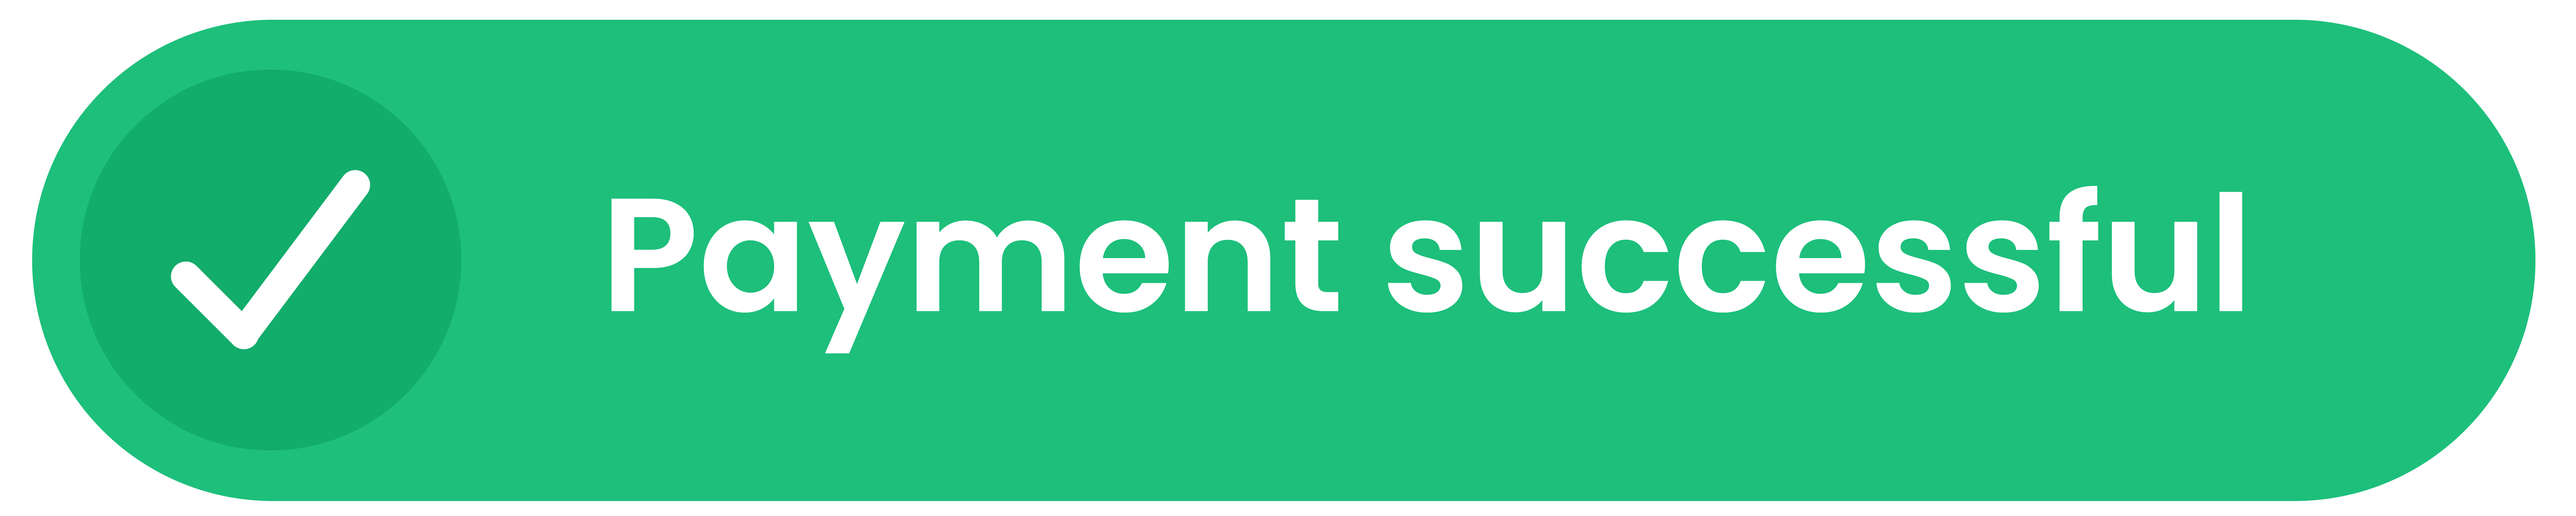
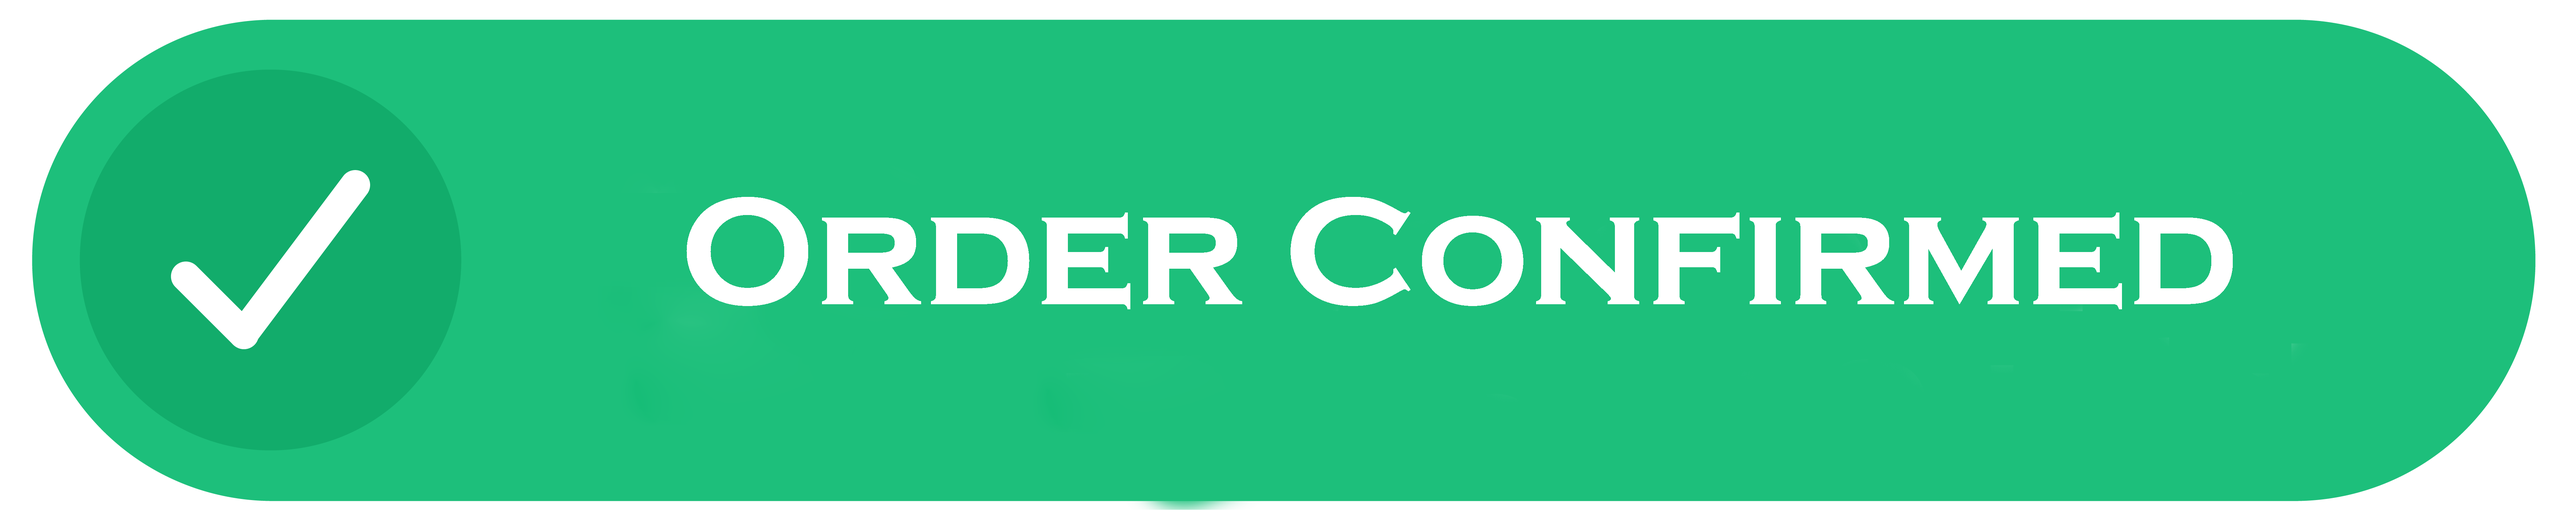
order and cart repair

Changed region(s): [[0.2181, 0.371, 0.8725, 0.6803], [0.4363, 0.9585, 0.4986, 0.9895]]

diff --git a/js/payment.js b/js/payment.js
@@ -1,3 +1,7 @@
+// Use the latest modular SDK from Firebase version 9+
+        import { initializeApp } from "https://www.gstatic.com/firebasejs/9.15.0/firebase-app.js";
+        import { getFirestore, collection, addDoc, serverTimestamp } from "https://www.gstatic.com/firebasejs/9.15.0/firebase-firestore.js";
+
 window.addEventListener('DOMContentLoaded', function () {
     const quantity = localStorage.getItem('quantity'); // Retrieve the value from local storage
     const unitPrice = 3950; // Unit price
@@ -7,90 +11,99 @@ window.addEventListener('DOMContentLoaded', function () {
     }
 });
 
-// Your web app's Firebase configuration
-var firebaseConfig = {
-    apiKey: "AIzaSyCSerXZZtRlGb63GJd-HefhGfKDZnbjjJc",
-  authDomain: "readex-8d80e.firebaseapp.com",
-  databaseURL: "https://readex-8d80e-default-rtdb.firebaseio.com",
-  projectId: "readex-8d80e",
-  storageBucket: "readex-8d80e.firebasestorage.app",
-  messagingSenderId: "127711263723",
-  appId: "1:127711263723:web:02b1d63d5a7b371828f7ae",
-  measurementId: "G-Q2Q59R8WRN"
+        // -----------------------------------------------------------------------------------
+        // STEP 2: PASTE YOUR FIREBASE CONFIGURATION HERE
+        // Find this in your Firebase project settings under "General" -> "Your apps".
+        // It's crucial that you replace these placeholder values with your actual config.
+        // -----------------------------------------------------------------------------------
+        const firebaseConfig = {
+  apiKey: "AIzaSyD6pUbSxksN1uPTuvV8ckSl5241a6c0bS8",
+  authDomain: "readex-userdata.firebaseapp.com",
+  projectId: "readex-userdata",
+  storageBucket: "readex-userdata.firebasestorage.app",
+  messagingSenderId: "610302361527",
+  appId: "1:610302361527:web:cb5be0d9e38cca9dd0b232",
+  measurementId: "G-CJVYZ0JG9C"
 };
-// Initialize Firebase
-firebase.initializeApp(firebaseConfig);
-var database = firebase.database();
 
-document.querySelector('.buy-now-content').addEventListener("click", (e)=> {
-    e.preventDefault(); // Prevent default form submission
+        // Initialize Firebase
+        const app = initializeApp(firebaseConfig);
 
-    const quantity = localStorage.getItem('quantity'); // Retrieve the value from local storage
-    const unitPrice = 3950; // Unit price
-    const totalPrice = unitPrice * quantity;
+        // Get a reference to the Firestore database service
+        const db = getFirestore(app);
+console.log(db);
+        // -----------------------------------------------------------------------------------
+        // STEP 3: JAVASCRIPT TO HANDLE THE FORM SUBMISSION
+        // -----------------------------------------------------------------------------------
+        const shippingForm = document.getElementById('buyNow');
+        // const statusMessage = document.getElementById('status-message');
 
-    var name = document.getElementById('name').value.trim();
-    var address = document.getElementById('address').value.trim();
-    var pincode = document.getElementById('pincode').value.trim();
-    var number = document.getElementById('number').value.trim();
-    var country = document.getElementById('country').value.trim();
-    var state = document.getElementById('state').value.trim();
-    // var productPrice = document.getElementById('price').innerHTML;
+        shippingForm.addEventListener('click', async (e) => {
+            // Prevents the default form reload behavior
+            e.preventDefault();
 
-    if (name === '' || address === '' || number === '' || pincode === '' || country === '' || state === '') {
-        alert('Please fill in all the fields.');
-        return;
-    }
+            // Get the current values from the form inputs
+          var name = document.getElementById('name').value.trim();
+          var address = document.getElementById('address').value.trim();
+          var pincode = document.getElementById('pincode').value.trim();
+          var country = document.getElementById('country').value.trim();
+          var countryCode = document.getElementById('countryCode').value.trim();
+          var state = document.getElementById('state').value.trim();
+          var number = document.getElementById('number').value.trim();
 
-    var options = {
-        "key": "rzp_live_hYulURwK7yq2ES", // Enter the Key ID generated from the Dashboard
-        "amount": totalPrice * 100, // Amount is in currency subunits. Default currency is INR. Hence, 500 refers to 500 paise
-        "currency": "INR",
-        "name": "Readex Craft",
-        "description": "Adjustable Quran Stand",
-        "image": "https://readex.in/img/favicon.jpg",
-        "handler": function(response) {
-            alert("Payment Successful. Razorpay Payment ID: " + response.razorpay_payment_id);
+            // statusMessage.textContent = 'Processing...';
+            // statusMessage.className = 'text-gray-500';
 
-            // Send data to Firebase
-            var orderData = {
-                name: name,
-                // email: email,
-                pincode: pincode,
+            // Create a data object to save to Firestore
+            const orderDetails = {
+                fullName: name,
                 address: address,
-                number: number,
+                pincode: pincode,
                 country: country,
-                state: state,
-                payment_id: response.razorpay_payment_id,
-                amount: productPrice
+                countryCode:countryCode,
+                state:state,
+                number: number,
+                orderStatus: 'pending', // You can add other useful info
+                createdAt: serverTimestamp() // Adds a server-side timestamp
             };
 
-            var newOrderKey = firebase.database().ref().child('orders').push().key;
-            var updates = {};
-            updates['/orders/' + newOrderKey] = orderData;
-            firebase.database().ref().update(updates)
-                .then(() => {
-                    localStorage.setItem('status', 'yes');
-                    window.location.href = '/succsess.html';
-                })
-                .catch((error) => {
-                    alert('Error saving order details: ' + error.message);
-                });
-            
-        },
-        "prefill": {
-            "name": name,
-            "contact": number
-        },
-        "notes": {
-            "address": address
-        },
-        "theme": {
-            "color": "#700000"
-        }
-    };
+            emailjs.init({
+          publicKey: "NV4eIQjZIW9ebnWtE", // Get this from your EmailJS account
+        });
 
-    var rzp1 = new Razorpay(options);
-    rzp1.open();
-    e.preventDefault();
-})
+        // 2. Add a click event listener to your button
+           
+        function sendOrderEmail() {
+            // These IDs can be found in your EmailJS account
+            const serviceID = 'service_c560en7';
+            const templateID = 'template_1m6qi7l';
+
+           
+
+            // 4. Send the email using the object
+            emailjs.send(serviceID, templateID, orderDetails)
+                .then(() => {
+                    alert('Order confirmation sent successfully!');
+                }, (err) => {
+                    alert('Failed to send confirmation. Error: ' + JSON.stringify(err));
+                });
+        }
+         sendOrderEmail();
+            // Use a try/catch block to handle potential errors
+            try {
+                // `addDoc` creates a new document with a unique, auto-generated ID in the "orders" collection.
+                const docRef = await addDoc(collection(db, "orders"), orderDetails);
+                
+                console.log("Order data saved with ID: ", docRef.id);
+                // statusMessage.textContent = '✅ Order confirmed successfully!';
+                // statusMessage.className = 'text-green-600';
+                // shippingForm.reset(); // Clear the form fields
+                window.location.href = 'succsus.html';
+            } catch (error) {
+                console.error("Error saving document: ", error);
+                // statusMessage.textContent = '❌ There was an error placing your order.';
+                // statusMessage.className = 'text-red-600';
+            }
+        });
+
+

diff --git a/address.html b/address.html
@@ -28,7 +28,7 @@
                     </div>
                     
                     <div class="cart-product-price">
-                        <p><span class="price" style=" font-size: 14px;">₹<span style="font-family: Degular-semibold; font-size: 17.5px;">3950</span></span></p>
+                        <p><span class="price" style=" font-size: 14px;">₹<span style="font-family: Degular-semibold; font-size: 17.5px;" class="total-amount">3950</span></span></p>
                         <img src="Assets/img/Free shipping.svg">                    
                     </div>
                 </div>
@@ -61,7 +61,7 @@
             <!-- <div class="white"></div> -->
             <div class="chekout-cart-div">
                 <div class="buy-now-btn">
-                    <button class="buy-now-content" style="height: 59px; ">Payment <img src="Assets/icons/Button-arrow-right.png" width="26px"></button>
+                    <button id="buyNow" class="buy-now-content" style="height: 59px; ">Payment <img src="Assets/icons/Button-arrow-right.png" width="26px"></button>
                 </div>
             </div>
         </div>
@@ -71,10 +71,22 @@
 <script src="js/loadPartials.js"></script>
 <script src="js/navbar.js"></script>
 <script src="js/shipping-detail.js"></script>
-<script src="https://www.gstatic.com/firebasejs/8.10.0/firebase-app.js"></script>
-    <script src="https://www.gstatic.com/firebasejs/8.10.0/firebase-database.js"></script>
-<script src="https://checkout.razorpay.com/v1/checkout.js"></script><div class="razorpay-container" style="z-index: 2147483647; position: fixed; top: 0px; display: none; left: 0px; height: 100%; width: 100%; max-height: 100dvh; backface-visibility: hidden; overflow-y: visible;"><style>@keyframes rzp-rot{to{transform: rotate(360deg);}}@-webkit-keyframes rzp-rot{to{-webkit-transform: rotate(360deg);}} .razorpay-container > iframe {min-height: 100%!important;}</style><div class="razorpay-backdrop" style="min-height: 100%; transition: 0.3s ease-out; position: fixed; top: 0px; left: 0px; width: 100%; height: 100%;"><span style="text-decoration: none; background: rgb(214, 68, 68); border: 1px dashed white; padding: 3px; opacity: 0; transform: rotate(45deg); transition: opacity 0.3s ease-in; font-family: lato, ubuntu, helvetica, sans-serif; color: white; position: absolute; width: 200px; text-align: center; right: -50px; top: 50px;">Test Mode</span></div><iframe style="opacity: 1; height: 100%; position: relative; background: none; display: block; border: 0 none transparent; margin: 0px; padding: 0px; z-index: 2;" allowtransparency="true" frameborder="0" width="100%" height="100%" src="https://api.razorpay.com/v1/checkout/public?traffic_env=baseline&amp;build=cefbdc87e1e7c9a42ee96b216491165861b27a9a&amp;build_v1=520f3ab30b49e7e315d5c449b1b5430aea890cfa&amp;checkout_v2=1&amp;new_session=1" class="razorpay-checkout-frame" allow="otp-credentials; payment; clipboard-write; publickey-credentials-get https://api.razorpay.com; publickey-credentials-create 'self' https://api.razorpay.com; web-share; camera *"></iframe></div>
-<script src="js/payment.js"></script>
+<script src="https://www.gstatic.com/firebasejs/9.6.1/firebase-app-compat.js"></script>
+<script src="https://www.gstatic.com/firebasejs/9.6.1/firebase-firestore-compat.js"></script>
+<script src="js/payment.js" type="module"></script>
+<script>
+ document.addEventListener('DOMContentLoaded', function() {
+            const cart = JSON.parse(localStorage.getItem('cart')) || [];
+            if (cart.length === 0) {
+                alert('Your cart is empty. Please add items to the cart before proceeding to checkout.');
+                window.location.href = 'cart.html'; // Redirect to cart page
+            }else{
+                document.querySelector('.total-amount').textContent = cart[0].price*cart[0].quantity - cart[0].discount*cart[0].quantity;
+            }
+        });
 
-
+</script>
+<script type="text/javascript"
+        src="https://cdn.jsdelivr.net/npm/@emailjs/browser@4/dist/email.min.js">
+    </script>
 </body></html>

diff --git a/js/cart.js b/js/cart.js
@@ -17,9 +17,13 @@
                 const product = cart[0];
                 document.querySelector('.cart-product-img').src = product.image;
                 document.querySelector('.cart-product-title span').textContent = product.name;
-                document.querySelector('.cart-product-title p').innerHTML = `<span style="font-family: degular-medium;">${product.name}</span>`;
-                document.querySelector('.cart-product-price-value').textContent = product.price;
                 document.querySelector('.cart-product-quantity').textContent = product.quantity;
+                document.querySelector('.cart-product-title p').innerHTML = `<span style="font-family: degular-medium;">${product.name}</span>`;
+                document.querySelector('.cart-product-price-value').textContent = product.price-product.discount;
+                document.querySelector('.item-count').textContent = product.quantity;
+                document.querySelector('.item-price').textContent = product.price*product.quantity;
+                document.querySelector('.item-discount').textContent = product.discount*product.quantity;
+                document.querySelector('.total-amount').textContent = product.price*product.quantity - product.discount*product.quantity;
 
                 // Remove product from cart
                 document.querySelector('.cart-product-cross-icon img').onclick = function() {
@@ -38,6 +42,10 @@
                     cart[0].quantity = product.quantity;
                     localStorage.setItem('cart', JSON.stringify(cart));
                     // Optionally, update price details
+                     document.querySelector('.item-count').textContent = product.quantity;
+                document.querySelector('.item-price').textContent = product.price*product.quantity;
+                document.querySelector('.item-discount').textContent = product.discount*product.quantity;
+                document.querySelector('.total-amount').textContent = product.price*product.quantity - product.discount*product.quantity;
                 };
                 document.getElementById('decrease').onclick = function() {
                     if (product.quantity > 1) {
@@ -46,6 +54,10 @@
                         cart[0].quantity = product.quantity;
                         localStorage.setItem('cart', JSON.stringify(cart));
                         // Optionally, update price details
+                         document.querySelector('.item-count').textContent = product.quantity;
+                document.querySelector('.item-price').textContent = product.price*product.quantity;
+                document.querySelector('.item-discount').textContent = product.discount*product.quantity;
+                document.querySelector('.total-amount').textContent = product.price*product.quantity - product.discount*product.quantity;
                     }
                 };
             }

diff --git a/cart.html b/cart.html
@@ -57,14 +57,14 @@
                 </div>
                 <div class="details-price">
                     <div class="item-prise">
-                        <p class="details-discription">Price (1 item)</p>
+                        <p class="details-discription">Price (<span class="item-count " style="font-family: Degular-webfont;"></span> &nbsp; item)</p>
                         <p class="column">:</p>
-                        <p class="price-valuee valuu"><span class="price">₹<span style="font-family: Degular-Regular; font-size: 17.5px;">5500</span></span></p>
+                        <p class="price-valuee valuu"><span class="price">₹<span style="font-family: Degular-Regular; font-size: 17.5px;" class="item-price"></span></span></p>
                     </div>
                     <div class="item-prise">
                         <p class="details-discription">Discount</p>
                         <p class="column">:</p>
-                        <p class="discount-value valuu"><span class="price">₹<span style="font-family: Degular-Regular; font-size: 17.5px;">1500</span></span></p>
+                        <p class="discount-value valuu"><span class="price">₹<span style="font-family: Degular-Regular; font-size: 17.5px;" class="item-discount"></span></span></p>
                     </div>
                     <div class="item-prise">
                         <p class="details-discription">Delivery Charge</p>
@@ -76,7 +76,7 @@
                     <div class="item-prise">
                         <p class="details-discription">Total Amount</p>
                         <p class="column">:</p>
-                        <p class="total-amount-value valuu"><span class="price" style="font-weight: 600;">₹<span style="font-family: Degular-semibold; font-size: 18px;">3950</span></span></p>
+                        <p class="total-amount-value valuu"><span class="price" style="font-weight: 600;">₹<span style="font-family: Degular-semibold; font-size: 18px;" class="total-amount"></span></span></p>
                     </div>
                     <div class="tax"><p>(This include all taxes and <br>Shipping Charges)</p></div>
                 </div>

diff --git a/succsus.html b/succsus.html
@@ -26,12 +26,12 @@
                     </div>
          </div>
          <div class="delivery-detailssss">
-          <p>Your order will be delivered with <br>in 7-14 working days</p>
+          <p>Your order will be processed with <br>in 1-2 working days</p>
           
          </div>
          <div class="sucssuss">
                 <div class="sucssuss1"><p>Redirecting to My Orders <br>
-                    with in 10 seconds</p></div>
+                    with in <span>10 seconds</span></p></div>
                     <div class="sucssuss2"><div class="buy-now-btn">
                     <button class="buy-now-content" style="height: 40px; "><img src="Assets/img/Vector.svg"></button>
                 </div></div>

diff --git a/js/product-page-js.js b/js/product-page-js.js
@@ -138,7 +138,8 @@ addToCartBtn.addEventListener('click', function() {
             const product = {
                 id: 'readex-quran-stand',
                 name: 'Readex-Adjustable Quran Stand',
-                price: 3950,
+                price: 4500,
+                discount: 550,
                 quantity: quantity,
                 image: 'Assets/img/product-1.jpg'
             };
